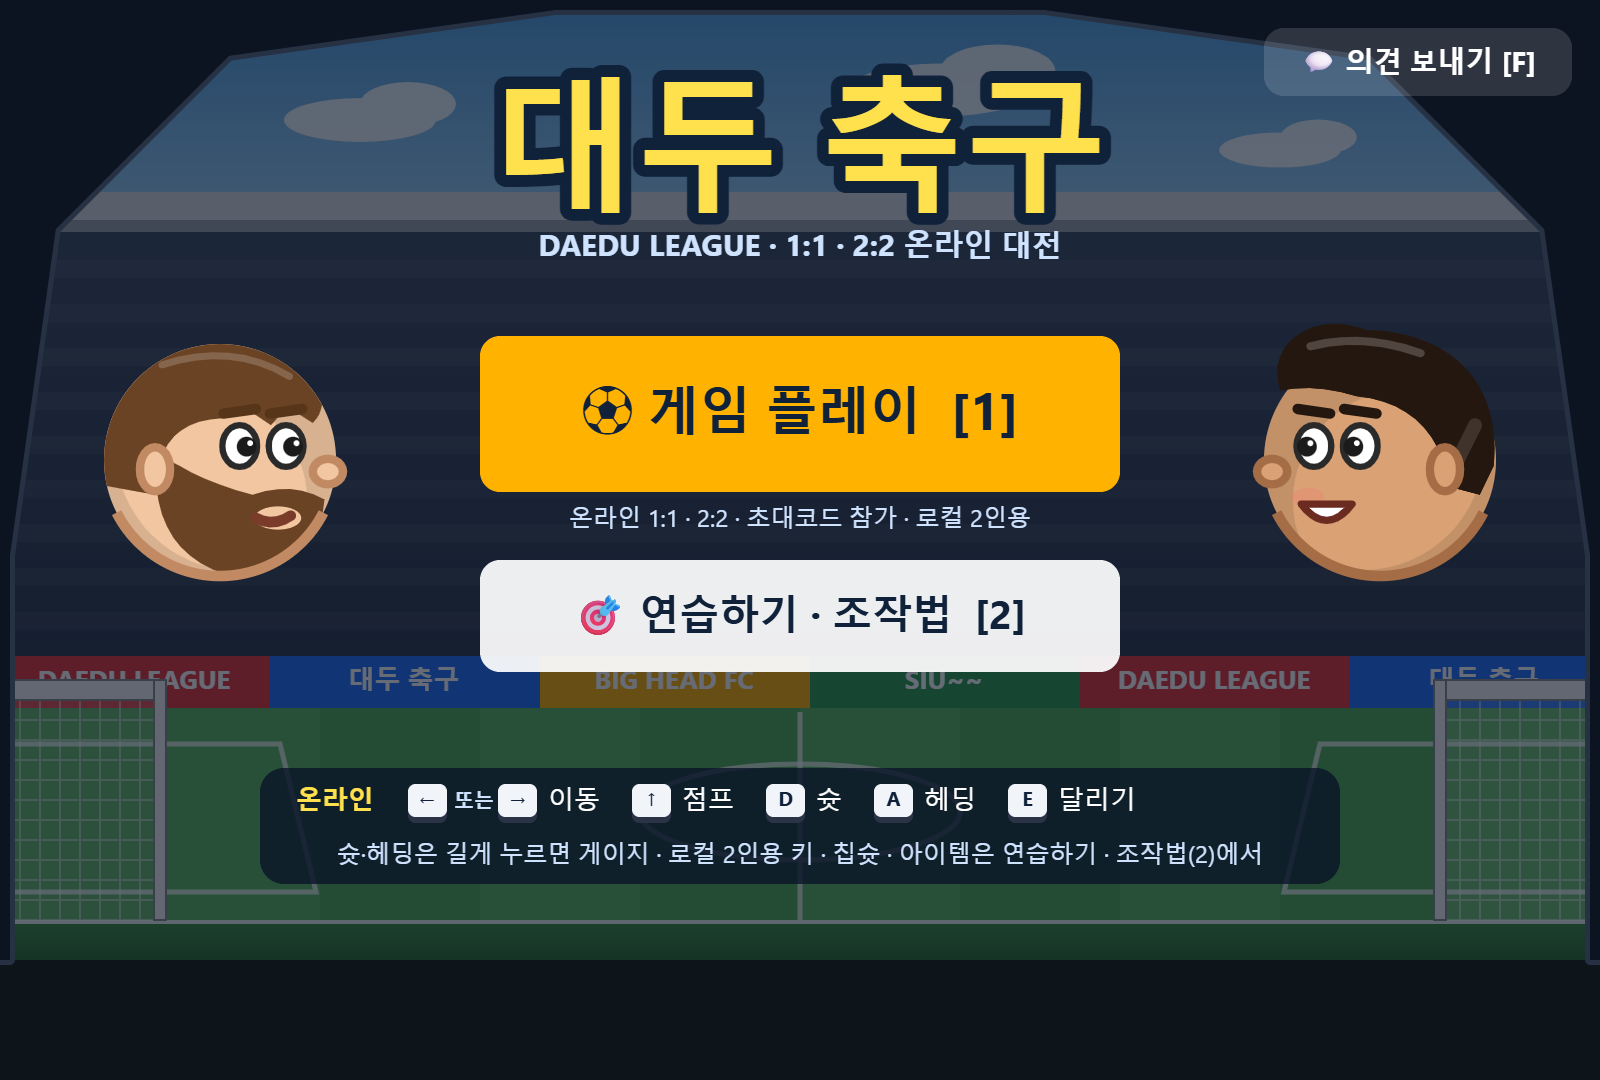
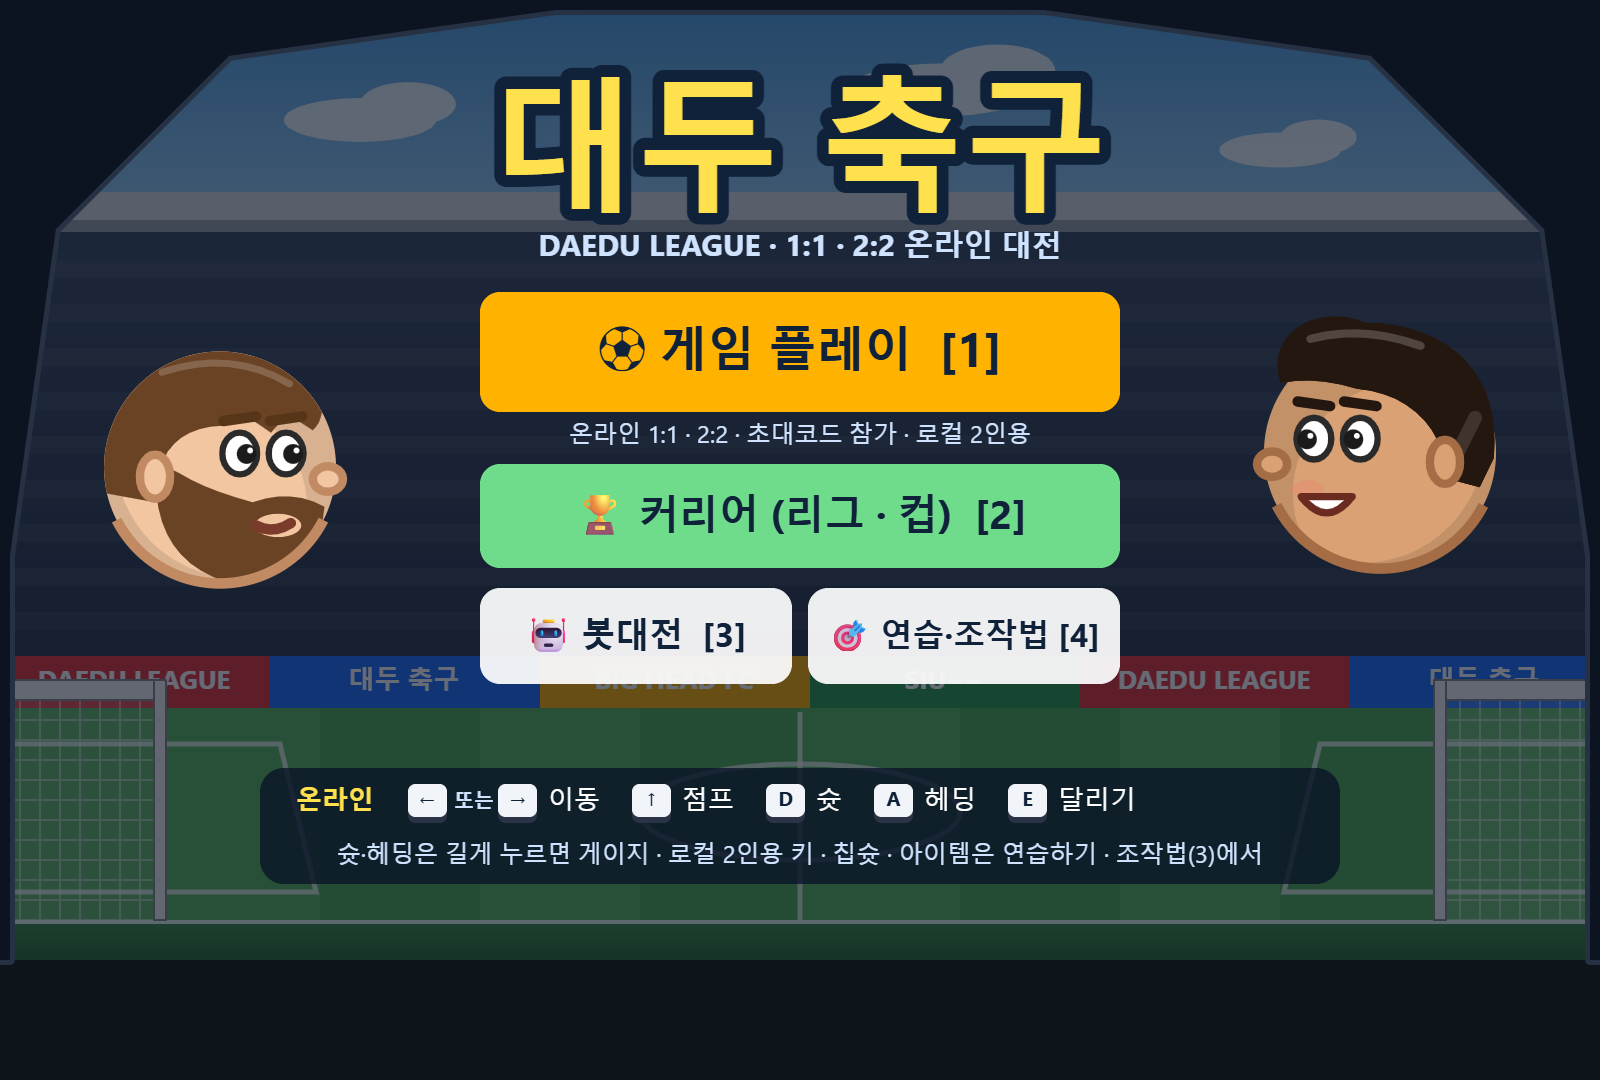
커리어 모드 소개 추가: 내 선수 만들기 · 4부 승강제 리그 · 32강 컵 · 성장 · 명예의 전당
- 스크린샷 6장 추가 (내 선수 만들기 · 리그 · 컵 대진표 · 마이페이지 · 선수 목록 · 봇대전), 메인 화면 새로
- 리그전 → 봇대전 이름 변경 반영, 선수 27명 + 내 선수
- 해결한 문제: AI 공중볼 경합 · 얼굴 부품 시스템 · 온라인 내 선수 검증 · 킥 "같은 길을 다른 빠르기로" · 칩슛 바운드 · 땅볼슛

diff --git a/README.md b/README.md
@@ -1,7 +1,7 @@
 # ⚽ 대두 축구 · DAEDU LEAGUE
 
 > 머리 큰 선수들이 **1:1 · 2:2로 겨루는 브라우저 헤드 사커**
-> Flash 게임 *Sports Heads: Football* 의 조작감을 직접 분석해 재현하고, 온라인 대전·2:2·방 목록·채팅을 더한 개인 프로젝트입니다.
+> Flash 게임 *Sports Heads: Football* 의 조작감을 직접 분석해 재현하고, 온라인 대전·2:2·방 목록·채팅에 **내 선수를 만들어 키우는 커리어 모드(리그·컵)** 까지 더한 개인 프로젝트입니다.
 
 <p align="center">
   <img src="images/game-2v2.png" alt="2:2 경기 화면" width="100%" />
@@ -28,13 +28,14 @@
 
 | 구분 | 내용 |
 |---|---|
-| 모드 | 로컬 2인용(한 키보드) · **온라인 1:1 · 2:2** · **리그전(AI 대전, 난이도 3단계)** · 혼자 연습 |
+| 모드 | 로컬 2인용(한 키보드) · **온라인 1:1 · 2:2** · **커리어(리그 · 컵)** · 봇대전(AI 대전, 난이도 3단계) · 혼자 연습 |
+| 커리어 | **내 선수 만들기**(얼굴 부품 9종 조합) → 4부 동네 리그에서 1부 레전드 리그까지 승격 · 32강 컵 · 상금으로 능력치 성장 · 트로피 장식장 · 명예의 전당 |
 | 온라인 | 방 목록(2초마다 갱신) · 공개/비공개 방 · 초대 링크 · 닉네임 · 끊기면 일시정지 후 같은 코드로 복귀 |
 | 2:2 | 로비에서 자리 클릭으로 팀 이동·자리 맞바꿈 · 넓은 운동장(800 → 1120px) · 내 선수 ▼ 표시 |
 | 기기 | PC(키보드) · **모바일(터치 버튼, 가로 화면)** · 홈 화면에 추가하면 앱처럼 전체 화면 |
 | 소통 | 로비·경기 중 **채팅**(Enter) · 메인 화면 **의견 보내기**(버그·건의·후기) |
 | 플레이 | 게이지 슛(차올랐다 내려가는 게이지) · 칩슛 · 땅볼슛 · 방향 조준 헤딩 · 달리기(체력) · 아이템 18종 |
-| 선수 | 선수 10명, 능력치 5종(스피드·점프·킥·드리블·스태미너) · 그림 파일 없이 코드로 그린 캐리커처 얼굴 |
+| 선수 | 선수 27명 + **내가 만든 선수**(온라인에서도 사용), 능력치 5종(스피드·점프·킥·드리블·스태미너, Lv1~10) · 그림 파일 없이 코드로 그린 캐리커처 얼굴 · 2부 · 1부 선수는 커리어에서 그 리그 우승 시 해금 |
 
 <p align="center">
   <img src="images/menu.png" alt="메인 화면" width="49%" />
@@ -42,7 +43,36 @@
 </p>
 <p align="center">
   <img src="images/lobby-2v2.png" alt="2:2 로비" width="49%" />
-  <img src="images/league-select.png" alt="리그전 · AI 대전" width="49%" />
+  <img src="images/bot-select.png" alt="봇대전 · AI 대전" width="49%" />
+</p>
+
+---
+
+## 🏆 커리어 모드
+
+내 선수를 만들어 **4부 동네 리그에서 시작해 1부 레전드 리그까지** 올라가는 성장 모드입니다.
+
+<p align="center">
+  <img src="images/career-create.png" alt="내 선수 만들기" width="49%" />
+  <img src="images/career-league.png" alt="3부 리그 순위표와 다음 경기" width="49%" />
+</p>
+<p align="center">
+  <img src="images/career-cup.png" alt="컵 대회 대진표" width="49%" />
+  <img src="images/career-mypage.png" alt="마이페이지 트로피 장식장" width="49%" />
+</p>
+
+| 단계 | 내용 |
+|---|---|
+| **내 선수 만들기** | 이름 → 외형(피부 8 · 헤어 16 · 머리색 10 · 눈썹 5 · 눈 6 · 입 6 · 수염 5 · 액세서리 4 · 유니폼 10, 🎲 랜덤) → 능력치(모두 Lv3 + 자유 포인트 5). 팀 이름은 자동으로 `이름 FC` |
+| **리그 (4부 × 8팀)** | 4부 동네 조기축구회 → 3부 프로(손흥민 · 야말 · 살라 …) → 2부 월드클래스(메시 · 호날두 · 음바페 …) → 1부 레전드(펠레 · 마라도나 · 지단 · 박지성 …). 한 시즌 7경기, 2위 안 승격 · 7 · 8위 강등 (승강은 내 팀만, 리그 구성은 고정) |
+| **컵 (32강 토너먼트)** | 32팀 전부 랜덤 추첨, 리그 경기 사이사이에 열림. 상대 리그 수준에 맞춰 AI 난이도가 바뀌고, 높은 리그 팀을 잡으면 **자이언트 킬링 ×1.5** 보너스 |
+| **성장** | 리그 · 컵에서 번 상금(리그가 높을수록 배율 ↑)으로 능력치 상점에서 Lv10 까지. 능력치 초기화(쓴 돈 절반 환불) |
+| **기록** | 마이페이지 트로피 장식장(4부 동 · 3부 은 · 2부 금 · 1부 레전드 · 컵) · 통산 기록 · 시즌 기록 |
+| **명예의 전당** | 1부 우승 후 은퇴 → 그 선수는 영구 저장되어 봇대전 · 온라인 · 연습에서 계속 사용, 새 선수로 다시 4부부터 (돈 · 해금 유지) |
+| **공정성** | 리그 · 컵은 "다시 하기" 없이 "계속"만, 경기 도중 나가거나 창을 닫으면 0:3 기권패 |
+
+<p align="center">
+  <img src="images/player-picker.png" alt="선수 전체 목록 창 (내 선수 · 명예의 전당 · 리그별 · 잠금)" width="70%" />
 </p>
 
 ---
@@ -73,6 +103,7 @@ flowchart LR
 | `sim.js` | 물리·규칙. 맨 위 `TUNING` 하나에서 속도·슛·헤딩·체력·아이템 수치를 모두 조정 |
 | `client.js` | Canvas 렌더링, 입력, 사운드(WebAudio 합성), 메뉴·로비·채팅·의견 창 |
 | `server.js` | 정적 파일, 방/초대코드/방 목록, WebSocket 동기화, 의견 저장 |
+| `career.js` | 커리어 모드: 얼굴 부품 시스템, 내 선수 만들기, 리그 · 컵 · 상점 · 마이페이지 · 명예의 전당, 선수 목록 창 |
 
 ---
 
@@ -130,6 +161,9 @@ AI는 **사람과 똑같은 키 입력**(좌우·점프·슛 게이지·헤딩·
 5. **달리기**: 공 다툼·수비 복귀·공격 진행에 달리기를 쓰고 상황별로 체력을 남김. "아껴서 안 지치게" 버전은 오히려 약해져서(20승 20패), 위험할 때는 다 쓰고 나머지는 아끼는 버전을 채택
 6. **무리하게 달라붙는 문제** (사람과 해 본 피드백): 상대와 나의 "공까지 도착 시간"을 비교해, 상대가 먼저 닿아 공격할 수 있으면 **공과 골대 사이 선 위로 물러나 수비**. 고치다 보니 상대가 **몰고 오는 공을 슛으로 착각해 제자리에 서 버리는** 버그도 발견 → 상대가 공 바로 뒤에 있으면 슛으로 보지 않게 수정. 공을 몰고 오는 장면에서 AI와의 거리 67 → **143px**, 1.5초 뒤 AI 위치가 골대 입구 앞으로
 
+7. **공중볼 경합에서 늘 지던 문제**: 공을 옆에서 날려 보내고 "공 바로 밑으로 정확히 달려가는" 테스트 봇과 붙여 보니, 질 때 AI가 **아예 점프를 안 했습니다.** "이 높이에서 맞히자"는 계획이 가로로 걸어갈 시간까지 더해져 매 프레임 미뤄졌던 것.
+   → 경합이면 **"지금 뛰면 머리가 공에 닿나"를 매 프레임 직접 계산**해 바로 뛰고, 공 바로 밑을 먼저 차지. 상대가 확실히 먼저 닿으면(점프 능력치 차이 등) 뛰지 않고 세컨드볼 자리로 → 경합 승률 어려움 25~34% → **36~44%**, 보통 35~45% → **39~48%**
+
 | 난이도 | 구현 | AI끼리 결과 |
 |---|---|---|
 | 쉬움 | 공 따라가기 + 슛 궤적 읽고 막기 | – |
@@ -155,11 +189,24 @@ AI는 **사람과 똑같은 키 입력**(좌우·점프·슛 게이지·헤딩·
 - **전체 화면**: 안드로이드는 첫 터치 때 자동 전체 화면 + 가로 고정. 아이폰은 크롬까지 모두 WebKit 이라 웹페이지 전체 화면이 막혀 있어서 **홈 화면에 추가** 안내를 띄우고, 웹 앱 manifest·아이콘을 넣어 홈 화면 아이콘으로 열면 주소창 없이 꽉 차게
 - 터치 기기에서만 켜지고(PC 는 그대로), PC 에서 시험할 땐 `?touch=1`
 
+### 8. 커리어 모드: 그림 파일 없이 "얼굴 부품"으로
+- 기존 선수 10명은 선수마다 머리 모양을 손으로 그린 함수였는데, 커스텀을 위해 **부품 조합형 얼굴**(머리 · 눈 · 눈썹 · 입 · 수염 · 액세서리)을 만들고 기존 머리 모양도 부품으로 재사용. 새 선수 17명도 부품 번호만 골라서 추가
+- 리그의 다른 경기는 실제로 돌리지 않고 **능력치 평균 차이로 기대 골 수를 정해 푸아송 분포로 점수**를 뽑음. 컵의 다른 경기는 더 높은 리그 팀이 이기고 같은 리그면 랜덤
+- **온라인에서 내 선수**: 내 선수의 이름 · 외형 번호 · 능력치 레벨을 서버가 범위 검사(능력치 1~10 등)한 뒤 방 사람들에게 전달하고, 각 브라우저가 외형 번호로 얼굴을 그림. 조작된 값(능력치 99 등)은 거절하고 기본 선수로
+- 저장은 브라우저(localStorage). 예전 버전 저장도 새 규칙(리그 구성 고정 등)에 맞게 자동으로 정리
+
+### 9. 능력치가 "체감"되게 + 그러다 찾은 물리 버그
+레벨별로 실제 속도 · 높이를 재 보니 점프만 티가 나고 **킥은 Lv1 → Lv10 이 슛 속도 +12%** 뿐이었습니다. 그런데 슛을 그냥 빠르게 하면 같은 각도에서 **더 높이 · 멀리** 날아가 칩슛이 하늘로 솟는 문제가 생겼습니다.
+- **같은 길을 다른 빠르기로**: 공 속도 ×k, 그 공의 중력 ×k² → 포물선(높이 · 도착 지점)은 그대로, 도착 시간만 1/k. Lv1 ×0.75 ~ Lv10 ×1.25 (같은 슛 도착 0.84초 ↔ 0.50초). AI 의 궤적 예측도 그 공의 중력 배율을 반영
+- **칩슛이 땅에서 너무 높게 튀던 버그**: 땅에 닿는 순간 중력은 원래대로 돌아가는데 속도는 빠른 채로 튀어서 원래보다 2배 넘게 튐 → 닿는 순간 속도도 같은 배율로 되돌려 첫 바운드 101px → **47px**
+- **땅볼슛이 공중으로 날아가던 버그**: 드리블 중 공이 10~20px만 떠 있어도 거의 수평(−4°)이라 170~190px를 날아간 뒤에야 떨어짐 → 차는 순간 바닥으로 내려 바로 굴림
+- 스피드 · 스태미너는 "만렙은 그대로, 하한을 내려" 격차를 키우고(걷기 135 ↔ 260px/s), 점프는 반대로 하한을 올려 격차를 줄임
+
 ---
 
 ## 조작
 
-| 동작 | 온라인 · 리그전 | 로컬 P1 | 로컬 P2 | 모바일 (터치) |
+| 동작 | 온라인 · 봇대전 · 커리어 | 로컬 P1 | 로컬 P2 | 모바일 (터치) |
 |---|---|---|---|---|
 | 이동 | ← → | A D | ← → | ◀ ▶ (미끄러뜨려 전환) |
 | 점프 | ↑ / W | W | ↑ | 점프 |
@@ -171,4 +218,4 @@ AI는 **사람과 똑같은 키 입력**(좌우·점프·슛 게이지·헤딩·
 
 ---
 
-<sub>원작: *Sports Heads: Football* (Flash). 이 프로젝트는 공부용 재구현이며 원작의 그림·소리·SWF 파일은 포함하지 않습니다. 선수 얼굴은 모두 코드로 그린 캐리커처입니다.</sub>
+<sub>원작: *Sports Heads: Football* (Flash). 이 프로젝트는 공부용 재구현이며 원작의 그림·소리·SWF 파일은 포함하지 않습니다. 선수 얼굴은 모두 코드로 그린 캐리커처입니다. 실존 선수 이름은 팬 메이드 캐리커처로만 사용했습니다.</sub>
